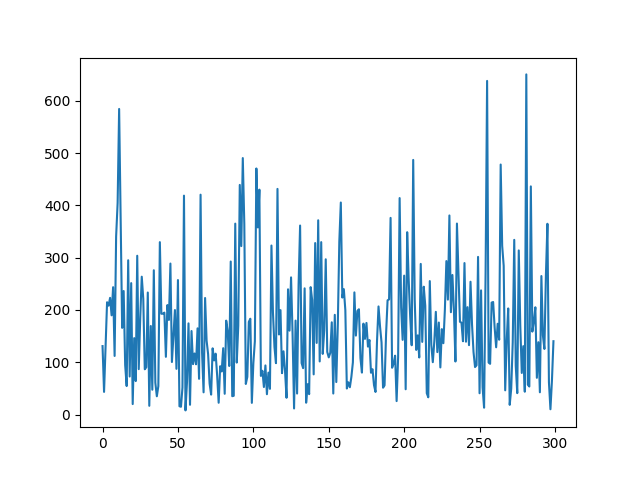
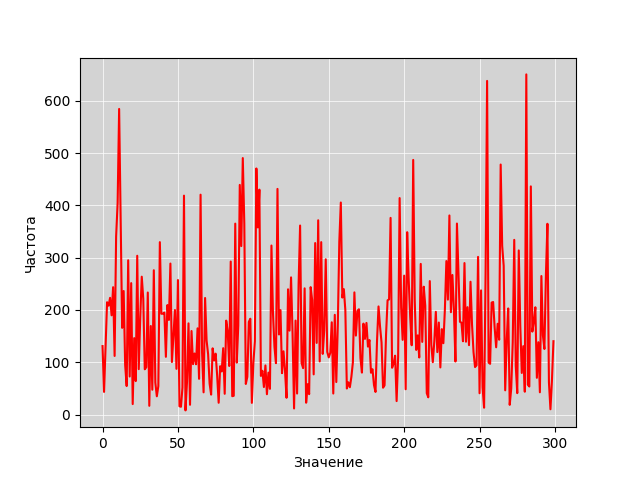
made nice graphs

diff --git a/lab1/main.py b/lab1/main.py
@@ -144,30 +144,38 @@ for i, N in enumerate([10, 20, 50, 100, 200]):
 # График 1
 # Распределение случайных величин (y - числа, x - номер числа)
 
-plt.plot(numbers_300)
+plt.gca().set_facecolor('lightgray')
+plt.plot(numbers_300, color="red")
+plt.xlabel("Значение")
+plt.ylabel("Частота")
+plt.grid(True, linewidth=0.5, color='white')
 plt.savefig("lab1/1.png")
-
 
 # График 2
 # Гистограмма распределения случайных величин
 plt.clf()
-plt.hist(numbers_300, bins=15)
-plt.title("Заданное распределение")
+plt.gca().set_facecolor('lightgray')
+plt.hist(numbers_300, bins=15, color="red", edgecolor='black', linewidth=1, zorder=2)
 plt.xlabel("Значение")
 plt.ylabel("Частота")
-# plt.savefig("lab1/2.png")
+plt.grid(True, linewidth=0.5, color='white', zorder=0)
+plt.savefig("lab1/2.png")
 
 # TODO сделать две гистограммы для в 3.png, показав numbers_300 и erlang_300
 
-# График 3 - Гистограмма для 300 случайных чисел с распределением Эрланга
+# График 3 - Гистограмма для 300 случайных чисел с распределением Эрланга и 300 чисел из заданного ЧП
 shape_param = 2  # Параметр k для Эрланга
 scale_param = d_best / m_best  # Параметр λ для Эрланга
 erlang_300 = np.random.gamma(shape=shape_param, scale=scale_param, size=300).tolist()
-plt.hist(erlang_300, bins=15)
-plt.title("Распределение Эрланга 2 порядка")
+plt.clf()
+plt.gca().set_facecolor('lightgray')
+plt.hist(numbers_300, density=True, color='blue', alpha=0.5, label='numbers_300')
+plt.hist(erlang_300, density=True, color='red', alpha=0.5, label='erlang_300')
+plt.grid(True, linewidth=0.5, color='white', zorder=0)
 plt.xlabel("Значение")
 plt.ylabel("Частота")
-# plt.savefig("lab1/3.png")
+plt.legend()
+plt.savefig("lab1/3.png")
 
 # Генерируем последовательность случайных чисел с распределением Эрланга
 erlang_200 = np.random.gamma(shape=shape_param, scale=scale_param, size=200).tolist()
